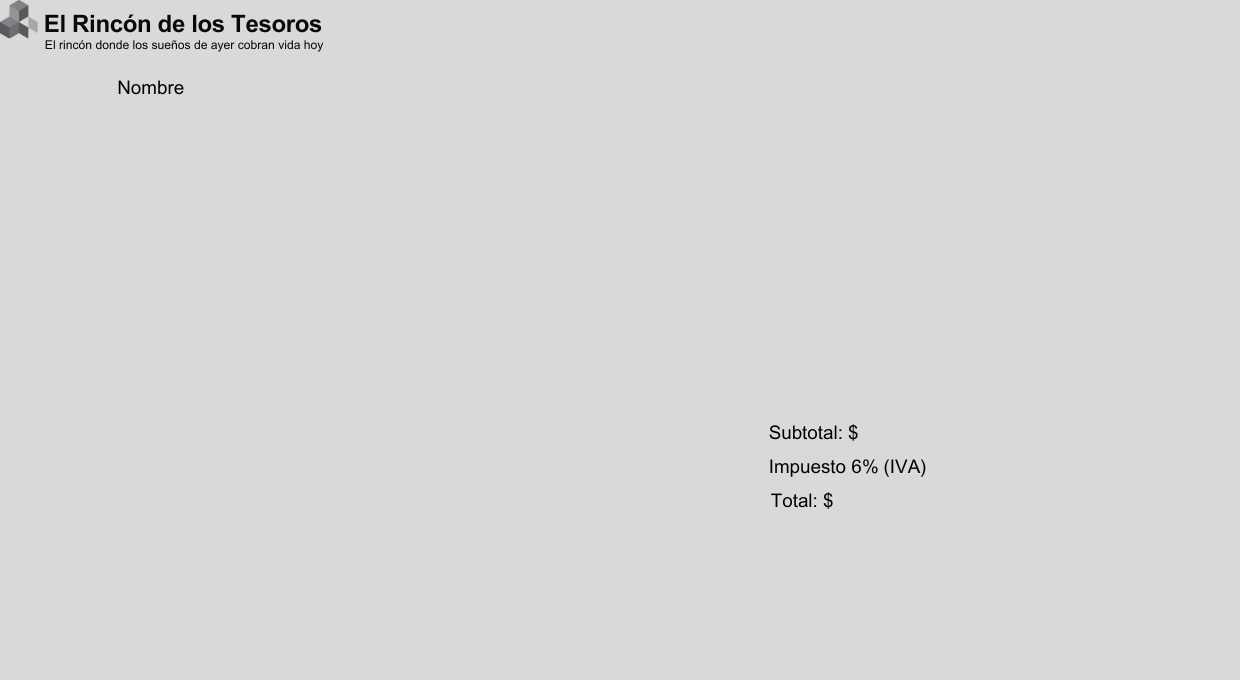
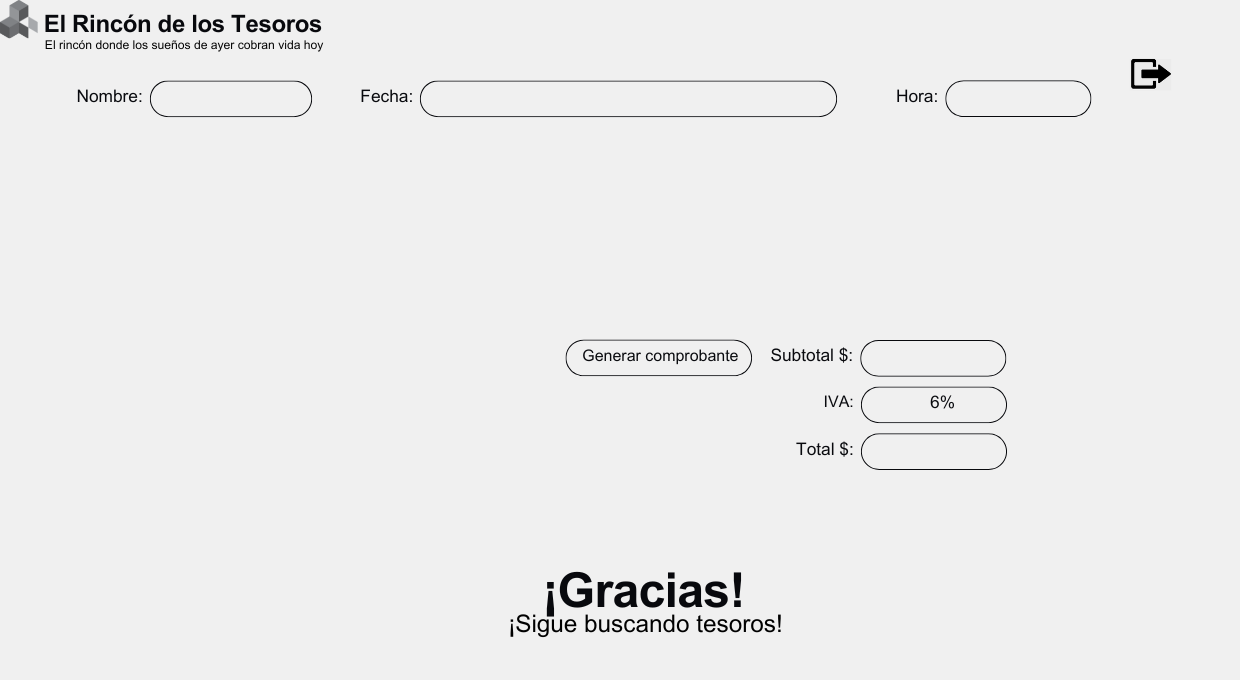
Version Final

diff --git a/FormRecibo.Designer.cs b/FormRecibo.Designer.cs
@@ -57,7 +57,7 @@
             // 
             this.label1.AutoSize = true;
             this.label1.Font = new System.Drawing.Font("Courier New", 14.25F, System.Drawing.FontStyle.Regular, System.Drawing.GraphicsUnit.Point, ((byte)(0)));
-            this.label1.Location = new System.Drawing.Point(31, 100);
+            this.label1.Location = new System.Drawing.Point(560, 213);
             this.label1.Name = "label1";
             this.label1.Size = new System.Drawing.Size(98, 21);
             this.label1.TabIndex = 3;
@@ -67,7 +67,7 @@
             // 
             this.label2.AutoSize = true;
             this.label2.Font = new System.Drawing.Font("Arial Narrow", 12F, System.Drawing.FontStyle.Regular, System.Drawing.GraphicsUnit.Point, ((byte)(0)));
-            this.label2.Location = new System.Drawing.Point(650, 100);
+            this.label2.Location = new System.Drawing.Point(438, 88);
             this.label2.Name = "label2";
             this.label2.Size = new System.Drawing.Size(45, 20);
             this.label2.TabIndex = 5;
@@ -77,7 +77,7 @@
             // 
             this.label3.AutoSize = true;
             this.label3.Font = new System.Drawing.Font("Arial Narrow", 12F, System.Drawing.FontStyle.Regular, System.Drawing.GraphicsUnit.Point, ((byte)(0)));
-            this.label3.Location = new System.Drawing.Point(952, 100);
+            this.label3.Location = new System.Drawing.Point(960, 88);
             this.label3.Name = "label3";
             this.label3.Size = new System.Drawing.Size(45, 20);
             this.label3.TabIndex = 6;
@@ -88,7 +88,7 @@
             // 
             this.LbLShowName.AutoSize = true;
             this.LbLShowName.Font = new System.Drawing.Font("Arial Narrow", 12F, System.Drawing.FontStyle.Regular, System.Drawing.GraphicsUnit.Point, ((byte)(0)));
-            this.LbLShowName.Location = new System.Drawing.Point(124, 100);
+            this.LbLShowName.Location = new System.Drawing.Point(161, 88);
             this.LbLShowName.Name = "LbLShowName";
             this.LbLShowName.Size = new System.Drawing.Size(45, 20);
             this.LbLShowName.TabIndex = 7;
@@ -97,7 +97,7 @@
             // richTextBox1
             // 
             this.richTextBox1.BackColor = System.Drawing.SystemColors.Menu;
-            this.richTextBox1.Location = new System.Drawing.Point(365, 155);
+            this.richTextBox1.Location = new System.Drawing.Point(458, 123);
             this.richTextBox1.Name = "richTextBox1";
             this.richTextBox1.ReadOnly = true;
             this.richTextBox1.Size = new System.Drawing.Size(418, 215);
@@ -107,7 +107,7 @@
             // label4
             // 
             this.label4.AutoSize = true;
-            this.label4.Location = new System.Drawing.Point(684, 388);
+            this.label4.Location = new System.Drawing.Point(765, 284);
             this.label4.Name = "label4";
             this.label4.Size = new System.Drawing.Size(55, 13);
             this.label4.TabIndex = 9;
@@ -117,7 +117,7 @@
             // 
             this.LblSubtotal.AutoSize = true;
             this.LblSubtotal.Font = new System.Drawing.Font("Courier New", 12F, System.Drawing.FontStyle.Regular, System.Drawing.GraphicsUnit.Point, ((byte)(0)));
-            this.LblSubtotal.Location = new System.Drawing.Point(745, 388);
+            this.LblSubtotal.Location = new System.Drawing.Point(893, 352);
             this.LblSubtotal.Name = "LblSubtotal";
             this.LblSubtotal.Size = new System.Drawing.Size(68, 18);
             this.LblSubtotal.TabIndex = 10;
@@ -127,7 +127,7 @@
             // 
             this.label5.AutoSize = true;
             this.label5.Font = new System.Drawing.Font("Courier New", 12F, System.Drawing.FontStyle.Regular, System.Drawing.GraphicsUnit.Point, ((byte)(0)));
-            this.label5.Location = new System.Drawing.Point(684, 415);
+            this.label5.Location = new System.Drawing.Point(571, 225);
             this.label5.Name = "label5";
             this.label5.Size = new System.Drawing.Size(218, 18);
             this.label5.TabIndex = 11;
@@ -136,7 +136,7 @@
             // label6
             // 
             this.label6.AutoSize = true;
-            this.label6.Location = new System.Drawing.Point(684, 454);
+            this.label6.Location = new System.Drawing.Point(639, 275);
             this.label6.Name = "label6";
             this.label6.Size = new System.Drawing.Size(40, 13);
             this.label6.TabIndex = 12;
@@ -146,7 +146,7 @@
             // 
             this.label7.AutoSize = true;
             this.label7.Font = new System.Drawing.Font("Courier New", 12F, System.Drawing.FontStyle.Regular, System.Drawing.GraphicsUnit.Point, ((byte)(0)));
-            this.label7.Location = new System.Drawing.Point(748, 454);
+            this.label7.Location = new System.Drawing.Point(905, 439);
             this.label7.Name = "label7";
             this.label7.Size = new System.Drawing.Size(68, 18);
             this.label7.TabIndex = 13;
@@ -154,45 +154,56 @@
             // 
             // btnPDF
             // 
-            this.btnPDF.BackColor = System.Drawing.SystemColors.ButtonFace;
+            this.btnPDF.BackColor = System.Drawing.Color.Transparent;
+            this.btnPDF.Cursor = System.Windows.Forms.Cursors.Hand;
+            this.btnPDF.FlatAppearance.BorderColor = System.Drawing.SystemColors.Menu;
+            this.btnPDF.FlatAppearance.BorderSize = 0;
+            this.btnPDF.FlatAppearance.MouseDownBackColor = System.Drawing.Color.Transparent;
+            this.btnPDF.FlatAppearance.MouseOverBackColor = System.Drawing.Color.Transparent;
+            this.btnPDF.FlatStyle = System.Windows.Forms.FlatStyle.Flat;
             this.btnPDF.Font = new System.Drawing.Font("Courier New", 14.25F, System.Drawing.FontStyle.Regular, System.Drawing.GraphicsUnit.Point, ((byte)(0)));
-            this.btnPDF.Location = new System.Drawing.Point(365, 388);
+            this.btnPDF.Location = new System.Drawing.Point(574, 344);
             this.btnPDF.Name = "btnPDF";
-            this.btnPDF.Size = new System.Drawing.Size(165, 54);
+            this.btnPDF.Size = new System.Drawing.Size(174, 32);
             this.btnPDF.TabIndex = 14;
-            this.btnPDF.Text = "Generar Comprobante";
             this.btnPDF.UseVisualStyleBackColor = false;
             this.btnPDF.Click += new System.EventHandler(this.btnPDF_Click);
             // 
             // button1
             // 
-            this.button1.Location = new System.Drawing.Point(1108, 26);
+            this.button1.BackColor = System.Drawing.Color.Transparent;
+            this.button1.Cursor = System.Windows.Forms.Cursors.Hand;
+            this.button1.FlatAppearance.BorderColor = System.Drawing.SystemColors.Menu;
+            this.button1.FlatAppearance.BorderSize = 0;
+            this.button1.FlatAppearance.MouseDownBackColor = System.Drawing.Color.Transparent;
+            this.button1.FlatAppearance.MouseOverBackColor = System.Drawing.Color.Transparent;
+            this.button1.FlatStyle = System.Windows.Forms.FlatStyle.Flat;
+            this.button1.Location = new System.Drawing.Point(1121, 53);
             this.button1.Name = "button1";
-            this.button1.Size = new System.Drawing.Size(75, 23);
+            this.button1.Size = new System.Drawing.Size(49, 41);
             this.button1.TabIndex = 15;
-            this.button1.Text = "Regresar";
-            this.button1.UseVisualStyleBackColor = true;
+            this.button1.UseVisualStyleBackColor = false;
             this.button1.Click += new System.EventHandler(this.button1_Click);
             // 
             // FormRecibo
             // 
             this.AutoScaleDimensions = new System.Drawing.SizeF(6F, 13F);
             this.AutoScaleMode = System.Windows.Forms.AutoScaleMode.Font;
-            this.BackgroundImage = global::ProyectoFinal_EDRM_ProgramacionII.Properties.Resources.Recibo;
+            this.BackgroundImage = global::ProyectoFinal_EDRM_ProgramacionII.Properties.Resources.Pagoventanilla1;
             this.ClientSize = new System.Drawing.Size(1224, 641);
             this.Controls.Add(this.button1);
             this.Controls.Add(this.btnPDF);
             this.Controls.Add(this.label7);
-            this.Controls.Add(this.label6);
-            this.Controls.Add(this.label5);
             this.Controls.Add(this.LblSubtotal);
-            this.Controls.Add(this.label4);
             this.Controls.Add(this.richTextBox1);
             this.Controls.Add(this.LbLShowName);
             this.Controls.Add(this.label3);
             this.Controls.Add(this.label2);
             this.Controls.Add(this.label1);
             this.Controls.Add(this.picLogo);
+            this.Controls.Add(this.label4);
+            this.Controls.Add(this.label6);
+            this.Controls.Add(this.label5);
             this.Name = "FormRecibo";
             this.Text = "FormRecibo";
             this.Load += new System.EventHandler(this.FormRecibo_Load);

diff --git a/PagoConTarjeta.Designer.cs b/PagoConTarjeta.Designer.cs
@@ -33,6 +33,7 @@
             this.FormTarjeta_txtCVV = new System.Windows.Forms.TextBox();
             this.FormPagar_BtnRecibo = new System.Windows.Forms.Button();
             this.FormsPago_txtNombre = new System.Windows.Forms.RichTextBox();
+            this.button1 = new System.Windows.Forms.Button();
             this.SuspendLayout();
             // 
             // FormTarjeta_Nombre
@@ -74,6 +75,8 @@
             // FormPagar_BtnRecibo
             // 
             this.FormPagar_BtnRecibo.BackColor = System.Drawing.Color.Transparent;
+            this.FormPagar_BtnRecibo.Cursor = System.Windows.Forms.Cursors.Hand;
+            this.FormPagar_BtnRecibo.FlatAppearance.BorderColor = System.Drawing.SystemColors.Menu;
             this.FormPagar_BtnRecibo.FlatAppearance.BorderSize = 0;
             this.FormPagar_BtnRecibo.FlatAppearance.MouseDownBackColor = System.Drawing.Color.Transparent;
             this.FormPagar_BtnRecibo.FlatAppearance.MouseOverBackColor = System.Drawing.Color.Transparent;
@@ -98,11 +101,28 @@
             this.FormsPago_txtNombre.Text = "";
             this.FormsPago_txtNombre.TextChanged += new System.EventHandler(this.FormsPago_txtNombre_TextChanged);
             // 
+            // button1
+            // 
+            this.button1.BackColor = System.Drawing.Color.Transparent;
+            this.button1.FlatAppearance.BorderColor = System.Drawing.SystemColors.Menu;
+            this.button1.FlatAppearance.BorderSize = 0;
+            this.button1.FlatAppearance.MouseDownBackColor = System.Drawing.Color.Transparent;
+            this.button1.FlatAppearance.MouseOverBackColor = System.Drawing.Color.Transparent;
+            this.button1.FlatStyle = System.Windows.Forms.FlatStyle.Flat;
+            this.button1.Location = new System.Drawing.Point(1125, 53);
+            this.button1.Name = "button1";
+            this.button1.Size = new System.Drawing.Size(61, 49);
+            this.button1.TabIndex = 13;
+            this.button1.UseVisualStyleBackColor = false;
+            this.button1.Click += new System.EventHandler(this.button1_Click);
+            // 
             // PagoConTarjeta
             // 
             this.AutoScaleDimensions = new System.Drawing.SizeF(6F, 13F);
             this.AutoScaleMode = System.Windows.Forms.AutoScaleMode.Font;
+            this.BackgroundImage = global::ProyectoFinal_EDRM_ProgramacionII.Properties.Resources.OverlaysPlagoFin1;
             this.ClientSize = new System.Drawing.Size(1224, 641);
+            this.Controls.Add(this.button1);
             this.Controls.Add(this.FormsPago_txtNombre);
             this.Controls.Add(this.FormPagar_BtnRecibo);
             this.Controls.Add(this.FormTarjeta_txtCVV);
@@ -123,5 +143,6 @@
         private System.Windows.Forms.TextBox FormTarjeta_txtCVV;
         private System.Windows.Forms.Button FormPagar_BtnRecibo;
         private System.Windows.Forms.RichTextBox FormsPago_txtNombre;
+        private System.Windows.Forms.Button button1;
     }
 }

diff --git a/FormCarrito.cs b/FormCarrito.cs
@@ -177,11 +177,12 @@ namespace ProyectoFinal_EDRM_ProgramacionII
                 {
                     MessageBox.Show(Convert.ToString(producto["Nombre"]) + " Se ha eliminado del carrito");
                     PanelCarrito.Controls.Clear();
+                    progreso = 0;
+                    FormCarro_lblProgreso.Text = "";
+                    FormCarro_ProgresBar.Value = 0;
                     CargarCarrito();
                 }
-                progreso = 0;
-                FormCarro_lblProgreso.Text = "$2500 para envio Gratis";
-                FormCarro_ProgresBar.Value = 0;
+                
 
             };
             btnEliminarCantidad.Click += (sender, e) =>
@@ -232,12 +233,12 @@ namespace ProyectoFinal_EDRM_ProgramacionII
 
             // Agregar el panel al FlowLayoutPanel
             PanelCarrito.Controls.Add(panelProducto);
-            progreso = progreso + (Convert.ToInt32(producto["precio"]) * cant);
+            progreso = progreso + (Convert.ToInt32(producto["precio"]) * cant); //obj en data row. PROGRESO COMO ATRIBUTO DE CLASE FORMCARRITO
             faltante = 2500 - progreso;
             progress = (progreso * 100) / 2500;
             if(progress > 100)
             {
-                progress = 100;
+                progress = 100; //VALUE NO PUEDE PASAR DE 123, POR ESO LO DEJAMOS EN 100
             }
             if (progreso >= 2500)
             {
@@ -249,7 +250,7 @@ namespace ProyectoFinal_EDRM_ProgramacionII
             }
             if (progreso == 0)
             {
-                FormCarro_lblProgreso.Text = "$2500 para envio gratis";
+                FormCarro_lblProgreso.Text = "";
             }
             FormCarro_ProgresBar.Value = progress;
         }

diff --git a/Properties/Resources.Designer.cs b/Properties/Resources.Designer.cs
@@ -413,6 +413,16 @@ namespace ProyectoFinal_EDRM_ProgramacionII.Properties {
         /// <summary>
         ///   Busca un recurso adaptado de tipo System.Drawing.Bitmap.
         /// </summary>
+        internal static System.Drawing.Bitmap OverlaysPlagoFin1 {
+            get {
+                object obj = ResourceManager.GetObject("OverlaysPlagoFin1", resourceCulture);
+                return ((System.Drawing.Bitmap)(obj));
+            }
+        }
+        
+        /// <summary>
+        ///   Busca un recurso adaptado de tipo System.Drawing.Bitmap.
+        /// </summary>
         internal static System.Drawing.Bitmap OverlaysProductosPromo {
             get {
                 object obj = ResourceManager.GetObject("OverlaysProductosPromo", resourceCulture);
@@ -436,6 +446,16 @@ namespace ProyectoFinal_EDRM_ProgramacionII.Properties {
         internal static System.Drawing.Bitmap Pagoventanilla {
             get {
                 object obj = ResourceManager.GetObject("Pagoventanilla", resourceCulture);
+                return ((System.Drawing.Bitmap)(obj));
+            }
+        }
+        
+        /// <summary>
+        ///   Busca un recurso adaptado de tipo System.Drawing.Bitmap.
+        /// </summary>
+        internal static System.Drawing.Bitmap Pagoventanilla1 {
+            get {
+                object obj = ResourceManager.GetObject("Pagoventanilla1", resourceCulture);
                 return ((System.Drawing.Bitmap)(obj));
             }
         }

diff --git a/FormProductos.cs b/FormProductos.cs
@@ -165,6 +165,14 @@ namespace ProyectoFinal_EDRM_ProgramacionII
             // Asignar el evento de clic del botón
             btnAgregarCarrito.Click += (sender, e) =>
             {
+                BDJuguetes baseDatos = new BDJuguetes();
+
+                int cantidadProductos = baseDatos.ContarProductos();
+                if (cantidadProductos < 6)
+                {
+                    MessageBox.Show("No se puede agregar el producto, ya que hay 6 o menos productos en la base de datos.");
+                    return;
+                }
                 FormCantidad formCantidad = new FormCantidad(producto["Nombre"].ToString(), Convert.ToInt32(producto["Existencia"]));
                 formCantidad.ShowDialog();
                 if (formCantidad.Cant != 0)
@@ -229,6 +237,11 @@ namespace ProyectoFinal_EDRM_ProgramacionII
             this.Hide();
             carro.ShowDialog();
             this.Show();
+        }
+
+        private void FormsInicio_txtNombre_TextChanged(object sender, EventArgs e)
+        {
+
         }
     }
 }

diff --git a/FormEfectivo.Designer.cs b/FormEfectivo.Designer.cs
@@ -179,6 +179,10 @@
             // Regresar
             // 
             this.Regresar.BackColor = System.Drawing.Color.Transparent;
+            this.Regresar.FlatAppearance.BorderColor = System.Drawing.SystemColors.Menu;
+            this.Regresar.FlatAppearance.BorderSize = 0;
+            this.Regresar.FlatAppearance.MouseDownBackColor = System.Drawing.Color.Transparent;
+            this.Regresar.FlatAppearance.MouseOverBackColor = System.Drawing.Color.Transparent;
             this.Regresar.FlatStyle = System.Windows.Forms.FlatStyle.Flat;
             this.Regresar.Font = new System.Drawing.Font("Courier New", 14.25F, System.Drawing.FontStyle.Regular, System.Drawing.GraphicsUnit.Point, ((byte)(0)));
             this.Regresar.Location = new System.Drawing.Point(1115, 45);

diff --git a/FormProductosPromociones.cs b/FormProductosPromociones.cs
@@ -155,6 +155,14 @@ namespace ProyectoFinal_EDRM_ProgramacionII
             // Asignar el evento de clic del botón
             btnAgregarCarrito.Click += (sender, e) =>
             {
+                BDJuguetes baseDatos = new BDJuguetes();
+
+                int cantidadProductos = baseDatos.ContarProductos();
+                if (cantidadProductos < 6)
+                {
+                    MessageBox.Show("No se puede agregar el producto, ya que hay 6 o menos productos en la base de datos.");
+                    return;
+                }
                 FormCantidad formCantidad = new FormCantidad(producto["Nombre"].ToString(), Convert.ToInt32(producto["Existencia"]));
                 formCantidad.ShowDialog();
                 if (formCantidad.Cant != 0)

diff --git a/FormBorrarJuguete.cs b/FormBorrarJuguete.cs
@@ -55,14 +55,6 @@ namespace ProyectoFinal_EDRM_ProgramacionII
         private void btnContinuar_Click(object sender, EventArgs e)
         {
             BDJuguetes baseDatos = new BDJuguetes();
-
-            int cantidadProductos = baseDatos.ContarProductos();
-            if (cantidadProductos <= 6)
-            {
-                MessageBox.Show("No se puede eliminar el producto, ya que hay 6 o menos productos en la base de datos.");
-                return;
-            }
-
             baseDatos.Bajas(idElim);
             this.Close();
         }

diff --git a/FormProductos.Designer.cs b/FormProductos.Designer.cs
@@ -105,6 +105,7 @@
             this.FormsInicio_txtNombre.Size = new System.Drawing.Size(120, 35);
             this.FormsInicio_txtNombre.TabIndex = 8;
             this.FormsInicio_txtNombre.Text = "";
+            this.FormsInicio_txtNombre.TextChanged += new System.EventHandler(this.FormsInicio_txtNombre_TextChanged);
             // 
             // FormsProductos
             // 

diff --git a/PagoConTarjeta.cs b/PagoConTarjeta.cs
@@ -65,5 +65,10 @@ namespace ProyectoFinal_EDRM_ProgramacionII
         {
 
         }
+
+        private void button1_Click(object sender, EventArgs e)
+        {
+            this.Close();
+        }
     }
 }
